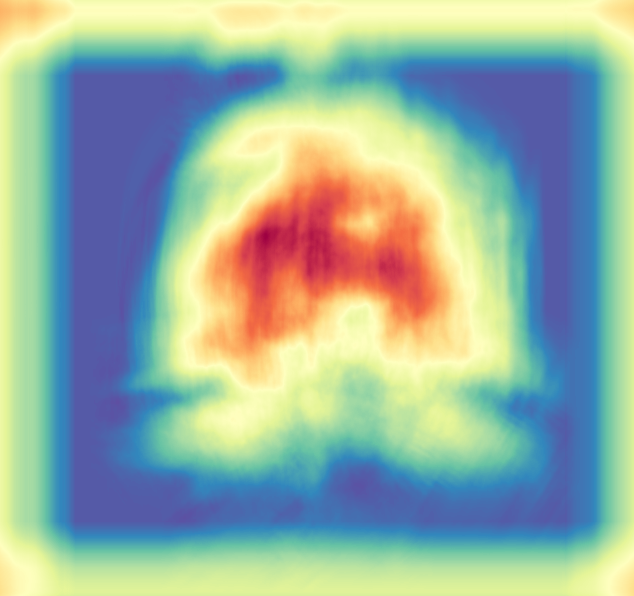
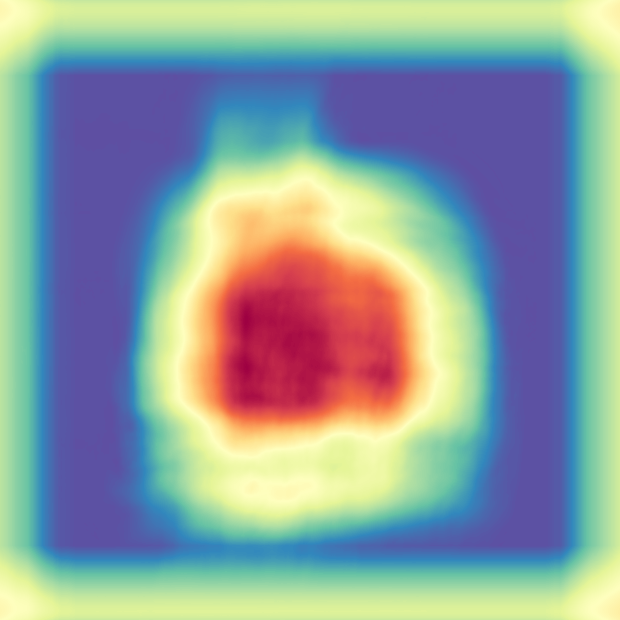
cc? :'(

diff --git a/cc.py b/cc.py
@@ -38,9 +38,10 @@ def cc(n, template, thresh, roiSize):
 	ctreader = ctfishpy.CTreader()
 	projections = ctreader.read_max_projections(n)
 	projections = [cv2.cvtColor(i, cv2.COLOR_RGB2GRAY) for i in projections]
-	projections = [ctreader.thresh_img(i, thresh, True) for i in projections]
+	projections = [ctreader.thresh_img(i, thresh, False) for i in projections]
 	template = ctreader.crop_around_center3d(template, roiSize=roiSize)
 	template_projections = ctreader.make_max_projections(template)
+
 
 	_min = 1
 	_max = -1
@@ -61,10 +62,9 @@ def cc(n, template, thresh, roiSize):
 	centerZ = find_max_value_coords(cz)
 	centerY = find_max_value_coords(cy)
 	centerX = find_max_value_coords(cx)
-	
-	center=[(centerX[1] + centerY[1])/2,
-			(centerY[0] + centerZ[0])/2,
-			(centerX[0] + centerZ[1])/2]
+	center=[int((centerX[0] + centerY[0])/2),
+			int((centerY[1] + centerZ[0])/2),
+			int((centerX[1] + centerZ[1])/2)]
 	
 
 
@@ -74,28 +74,27 @@ def cc(n, template, thresh, roiSize):
 	mancenter = mancenters[str(n)]
 
 	#find difference in centre for each one to find how certain it is of the center
-	x_diff = (centerX[0] + centerZ[1])/2
-	y_diff = (centerY[0] + centerY[1])/2
-	z_diff = (centerZ[0] + centerY[0])/2
+	x_diff = (center[2] - mancenter[2])**2
+	y_diff = (center[1] - mancenter[1])**2
+	z_diff = (center[0] - mancenter[0])**2
 
 	# Find if any of the values are zero and if so increment error c by 1000 to make obvious
 
-	square_error = x_diff**2 + y_diff**2 + z_diff**2
+	square_error = x_diff + y_diff + z_diff
 	error = int(math.sqrt(square_error))
 	
 	# Find the center by using correlation through x and y views
-	center = [centerZ[0], centerX[1], centerX[0]]
 
 	cmap = 'Spectral'
 	plt.imsave('output/cc_corr_x.png', cx, cmap=cmap)
 	plt.imsave('output/cc_corr_y.png', cy, cmap=cmap)
 	plt.imsave('output/cc_corr_z.png', cz, cmap=cmap)
 
-	return center, error
+	return center, error, mancenter
 
 
 if __name__ == "__main__":
-	_list = [218, 222, 236, 40, 425,765,81,85,88]
+	_list = [218, 222, 236, 40, 425,81,85,88]
 	roiSize = 150
 	thresh = 100
 
@@ -104,20 +103,20 @@ if __name__ == "__main__":
 
 	projectionspath = ctreader.dataset_path / 'projections/x/'
 
-	made = [path.stem for path in projectionspath.iterdir() if path.is_file() and path.suffix == '.png']
-	made = [int(name.replace('x_', '')) for name in made]
-	made.sort()
+	# made = [path.stem for path in projectionspath.iterdir() if path.is_file() and path.suffix == '.png']
+	# made = [int(name.replace('x_', '')) for name in made]
+	# made.sort()
 
 	errors = []
-	for n in made:
+	for n in _list:
 		ct, metadata = ctreader.read(n, align = True)
 		z,y,x = ctreader.read_max_projections(n)
-		center, error,  = cc(n, template, thresh, roiSize)
-		print(f'center {center} shape {ct.shape} otolith shape {otolith.shape} error {error}')
+		center, error, mancenter  = cc(n, template, thresh, roiSize)
+		
 		# center.pop(0)
 		otolith = ctreader.crop_around_center3d(ct, roiSize, center)
-
-		# ctreader.view(otolith)
+		print(f'center {center} mancenter {mancenter} ct shape {ct.shape} otolith shape {otolith.shape} error {error} ')
+		ctreader.view(otolith)
 		# errors.append(int(error))
 	# errors = np.array(errors)
 	# np.savetxt('output/cc_errors.csv', errors)

diff --git a/make_cc_template.py b/make_cc_template.py
@@ -7,19 +7,12 @@ import random
 import gc
 from scipy import ndimage
 
-def check(x, x_length):
-	return x
-	if x < 0: 
-		return 0 
-	elif x > x_length:  
-		return x_length
-
 def find_roi_bounds(x, roiSize, x_length):
 	x1 = int(x - roiSize/2)
 	x2 = int(x + roiSize/2)
 	return [x1, x2]
 
-def makeTemplate(labelsList, scanList, roiSize, thresh):
+def makeTemplate(samples, roiSize, thresh):
 	'''
 	Make template by:
 	1. find centre of mass of labels 
@@ -27,9 +20,18 @@ def makeTemplate(labelsList, scanList, roiSize, thresh):
 	2. use crop from original scan (only reading necessary slices) 
 	3. Average multiple ROI crops 
 	'''
-	cropList = []
+	
 	ctreader = ctfishpy.CTreader()
+	labelsList = []
+	scanList = []
+	for n in samples:
+		ct, metadata = ctreader.read(n, align=True)
+		label = ctreader.read_label('Otoliths', n)
+		
+		labelsList.append(label)
+		scanList.append(ct)
 
+	cropList = []
 	print('Finding ROIs...')
 	for label in labelsList:
 		z, x, y = ndimage.measurements.center_of_mass(label)
@@ -65,23 +67,14 @@ def makeTemplate(labelsList, scanList, roiSize, thresh):
 	template = np.array(template, dtype='uint16')
 	return template
 
-
 if __name__ == "__main__":
-	samples = [40, 78, 200]
+	samples = [40, 78, 200, 218, 240, 277, 330, 337, 341, 364, 462, 464]
 	roiSize = 150
 	thresh = 100
 	
 	ctreader = ctfishpy.CTreader()
-	labelsList = []
-	scanList = []
-	for n in samples:
-		ct, metadata = ctreader.read(n, align=True)
-		label = ctreader.read_label('Otoliths', n)
 
-		labelsList.append(label)
-		scanList.append(ct)
-
-	template = makeTemplate(labelsList, scanList, roiSize, thresh)
+	template = makeTemplate(samples, roiSize, thresh)
 	ctreader.write_label(template, 'Otoliths', 0)
 	template = ctreader.read_label('Otoliths', 0, align=False)
 	ctreader.view(template)

diff --git a/ctfishpy/model/dataGenie.py b/ctfishpy/model/dataGenie.py
@@ -7,26 +7,6 @@ import cv2
 import json
 import matplotlib.pyplot as plt
 
-def adjustData(img,mask,flag_multi_class=False,num_class=None):
-    if(flag_multi_class):
-        img = img / 255
-        mask = mask[:,:,:,0] if(len(mask.shape) == 4) else mask[:,:,0]
-        new_mask = np.zeros(mask.shape + (num_class,))
-        for i in range(num_class):
-            #for one pixel in the image, find the class in mask and convert it into one-hot vector
-            #index = np.where(mask == i)
-            #index_mask = (index[0],index[1],index[2],np.zeros(len(index[0]),dtype = np.int64) + i) if (len(mask.shape) == 4) else (index[0],index[1],np.zeros(len(index[0]),dtype = np.int64) + i)
-            #new_mask[index_mask] = 1
-            new_mask[mask == i,i] = 1
-        new_mask = np.reshape(new_mask,(new_mask.shape[0],new_mask.shape[1]*new_mask.shape[2],new_mask.shape[3])) if flag_multi_class else np.reshape(new_mask,(new_mask.shape[0]*new_mask.shape[1],new_mask.shape[2]))
-        mask = new_mask
-    elif(np.max(img) > 1):
-        img = img / 65535
-        # mask = mask /255
-        # mask[mask > 0.5] = 1
-        # mask[mask <= 0.5] = 0
-    return (img,mask)
-
 def fixFormat(batch, label = False):
     # change format of image batches to make viewable with ctreader
     if not label: return np.squeeze(batch.astype('uint16'), axis = 3)

diff --git a/ctfishpy/controller/CTreader.py b/ctfishpy/controller/CTreader.py
@@ -252,7 +252,7 @@ class CTreader:
 		thresh_16 = thresh_8 * (65535 / 255)
 		if is_16bit:
 			thresh = thresh_16
-		if is_16bit:
+		if not is_16bit:
 			thresh = thresh_8
 		new_img = (img > thresh) * img
 		return new_img
